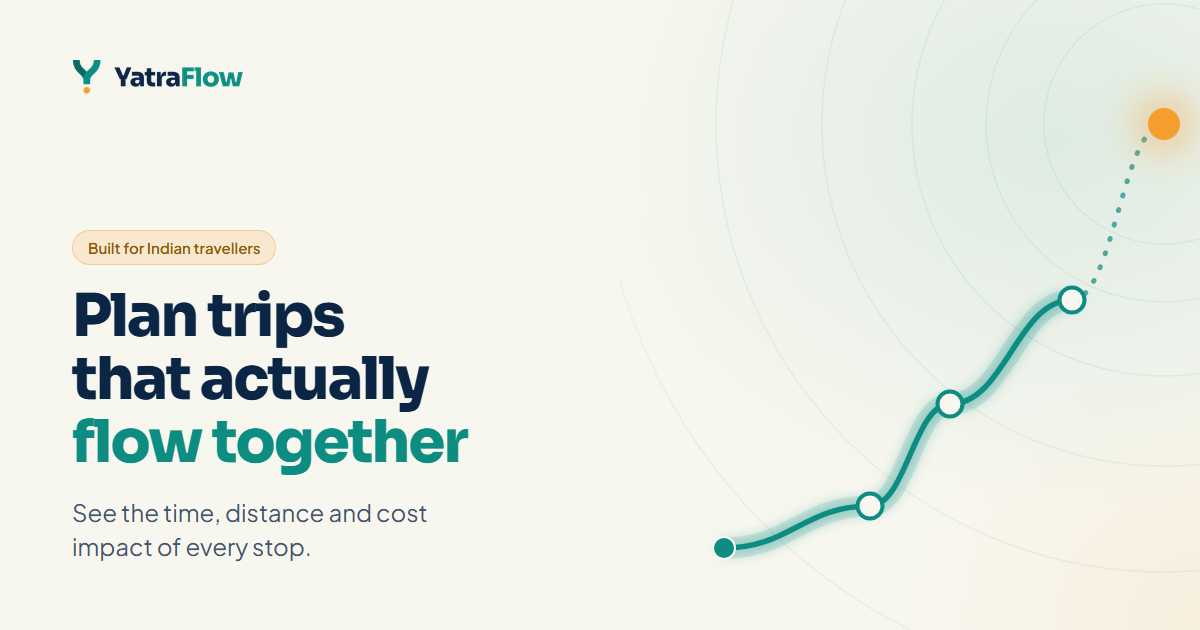
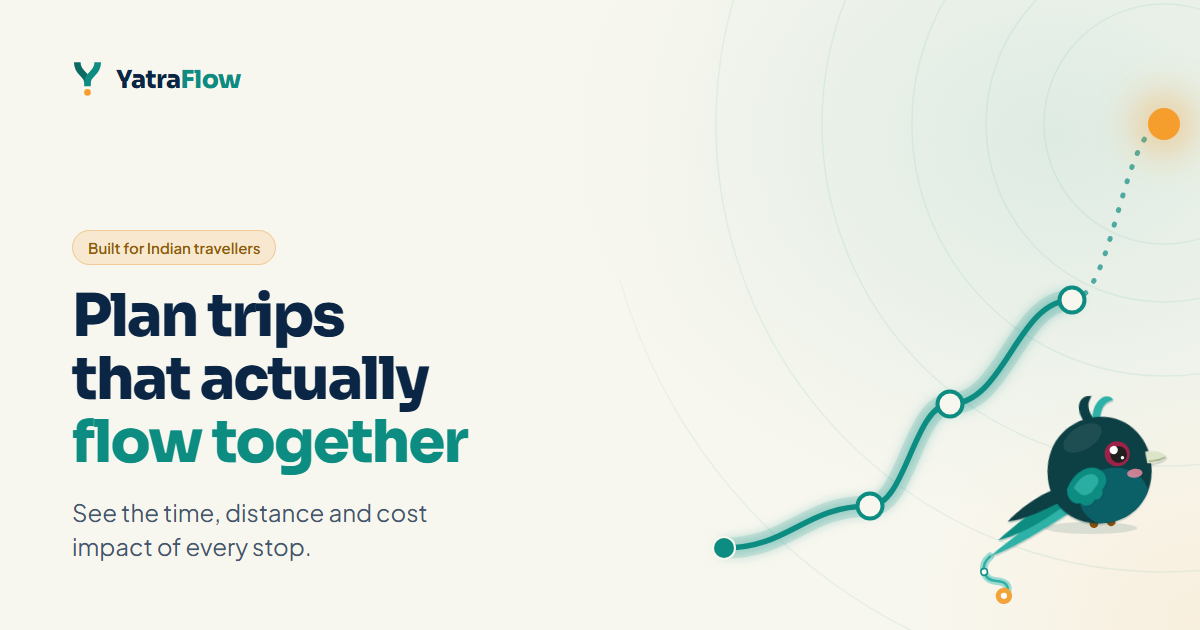
feat(brand): add Chakra to the default share image

Changed region(s): [[0.8325, 0.6333, 0.9867, 0.8746], [0.0617, 0.0905, 0.2158, 0.1508], [0.8017, 0.8746, 0.8633, 0.9651]]

diff --git a/scripts/og-default-card.html b/scripts/og-default-card.html
@@ -81,6 +81,12 @@
 
   /* Artifact plane: the route — a stop sequence, the thing the product plans. */
   .route { position: absolute; top: 0; right: 0; width: 580px; height: 630px; }
+
+  /* Chakra the koel perches below the road. Its tail already ends in a marigold
+     map dot, so the bird reads as part of the route. It is a picture asset
+     loaded by relative path: the render resolves it from scripts/ to
+     public/brand/mascot/. */
+  .chakra { position: absolute; left: 944px; top: 360px; width: 252px; height: 252px; }
 </style>
 </head>
 <body>
@@ -133,6 +139,8 @@
   </svg>
 
   <div class="fade"></div>
+
+  <img class="chakra" src="../public/brand/mascot/chakra-hero.svg" alt="" />
 
   <div class="col">
     <div class="brand">
